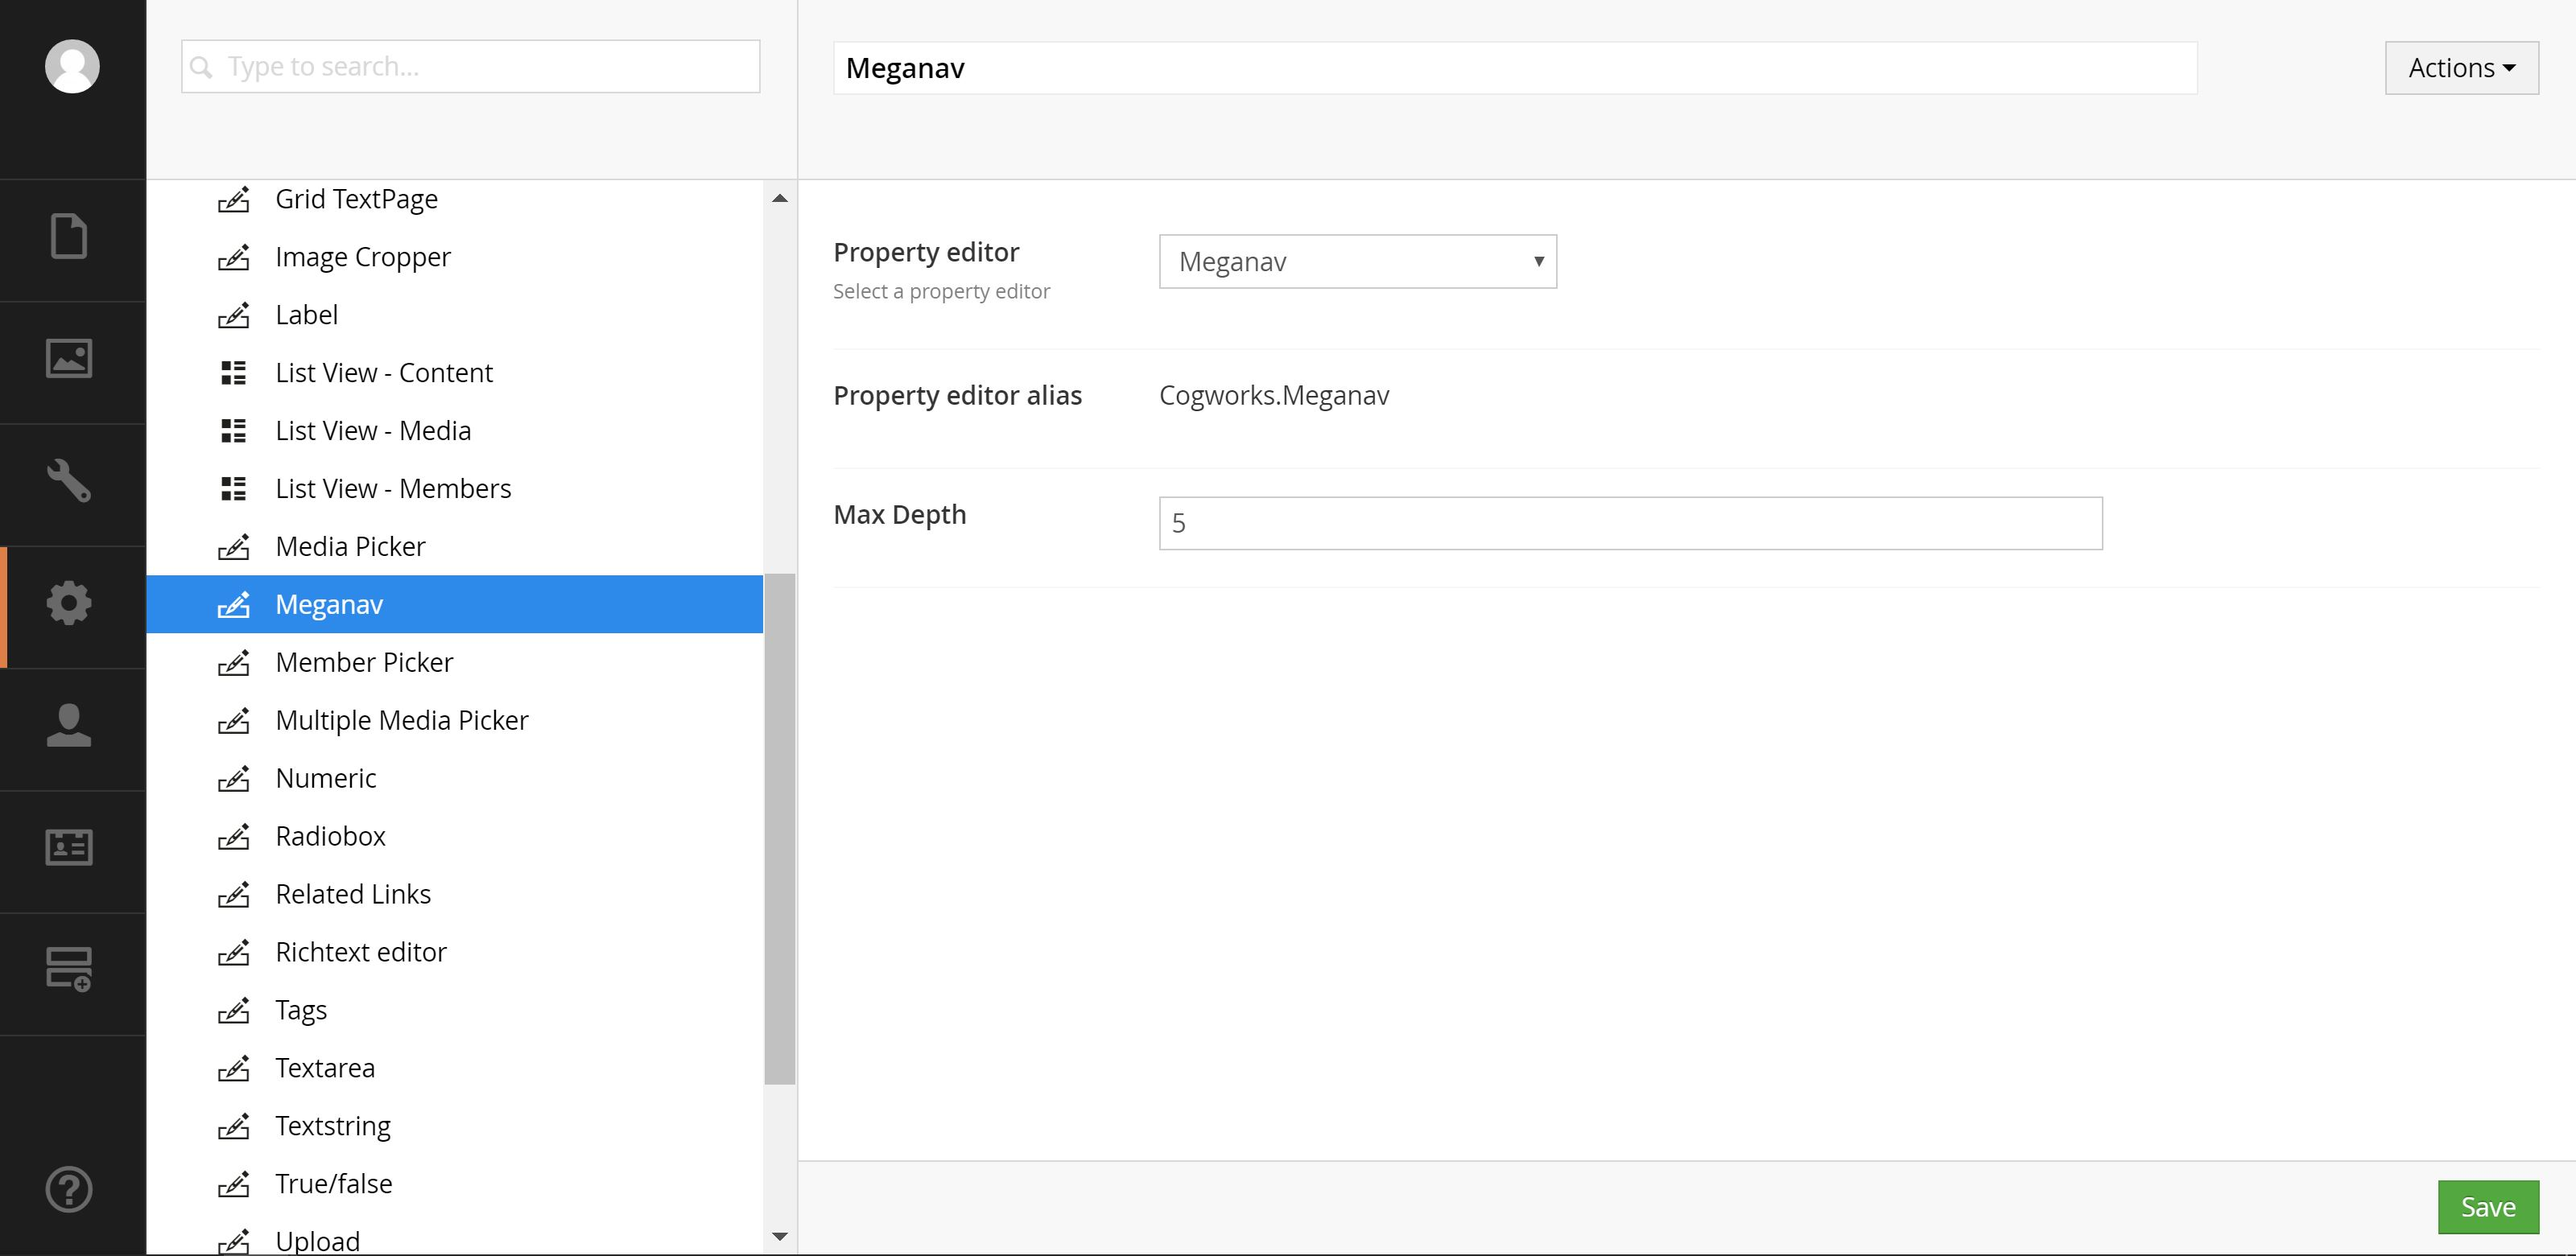
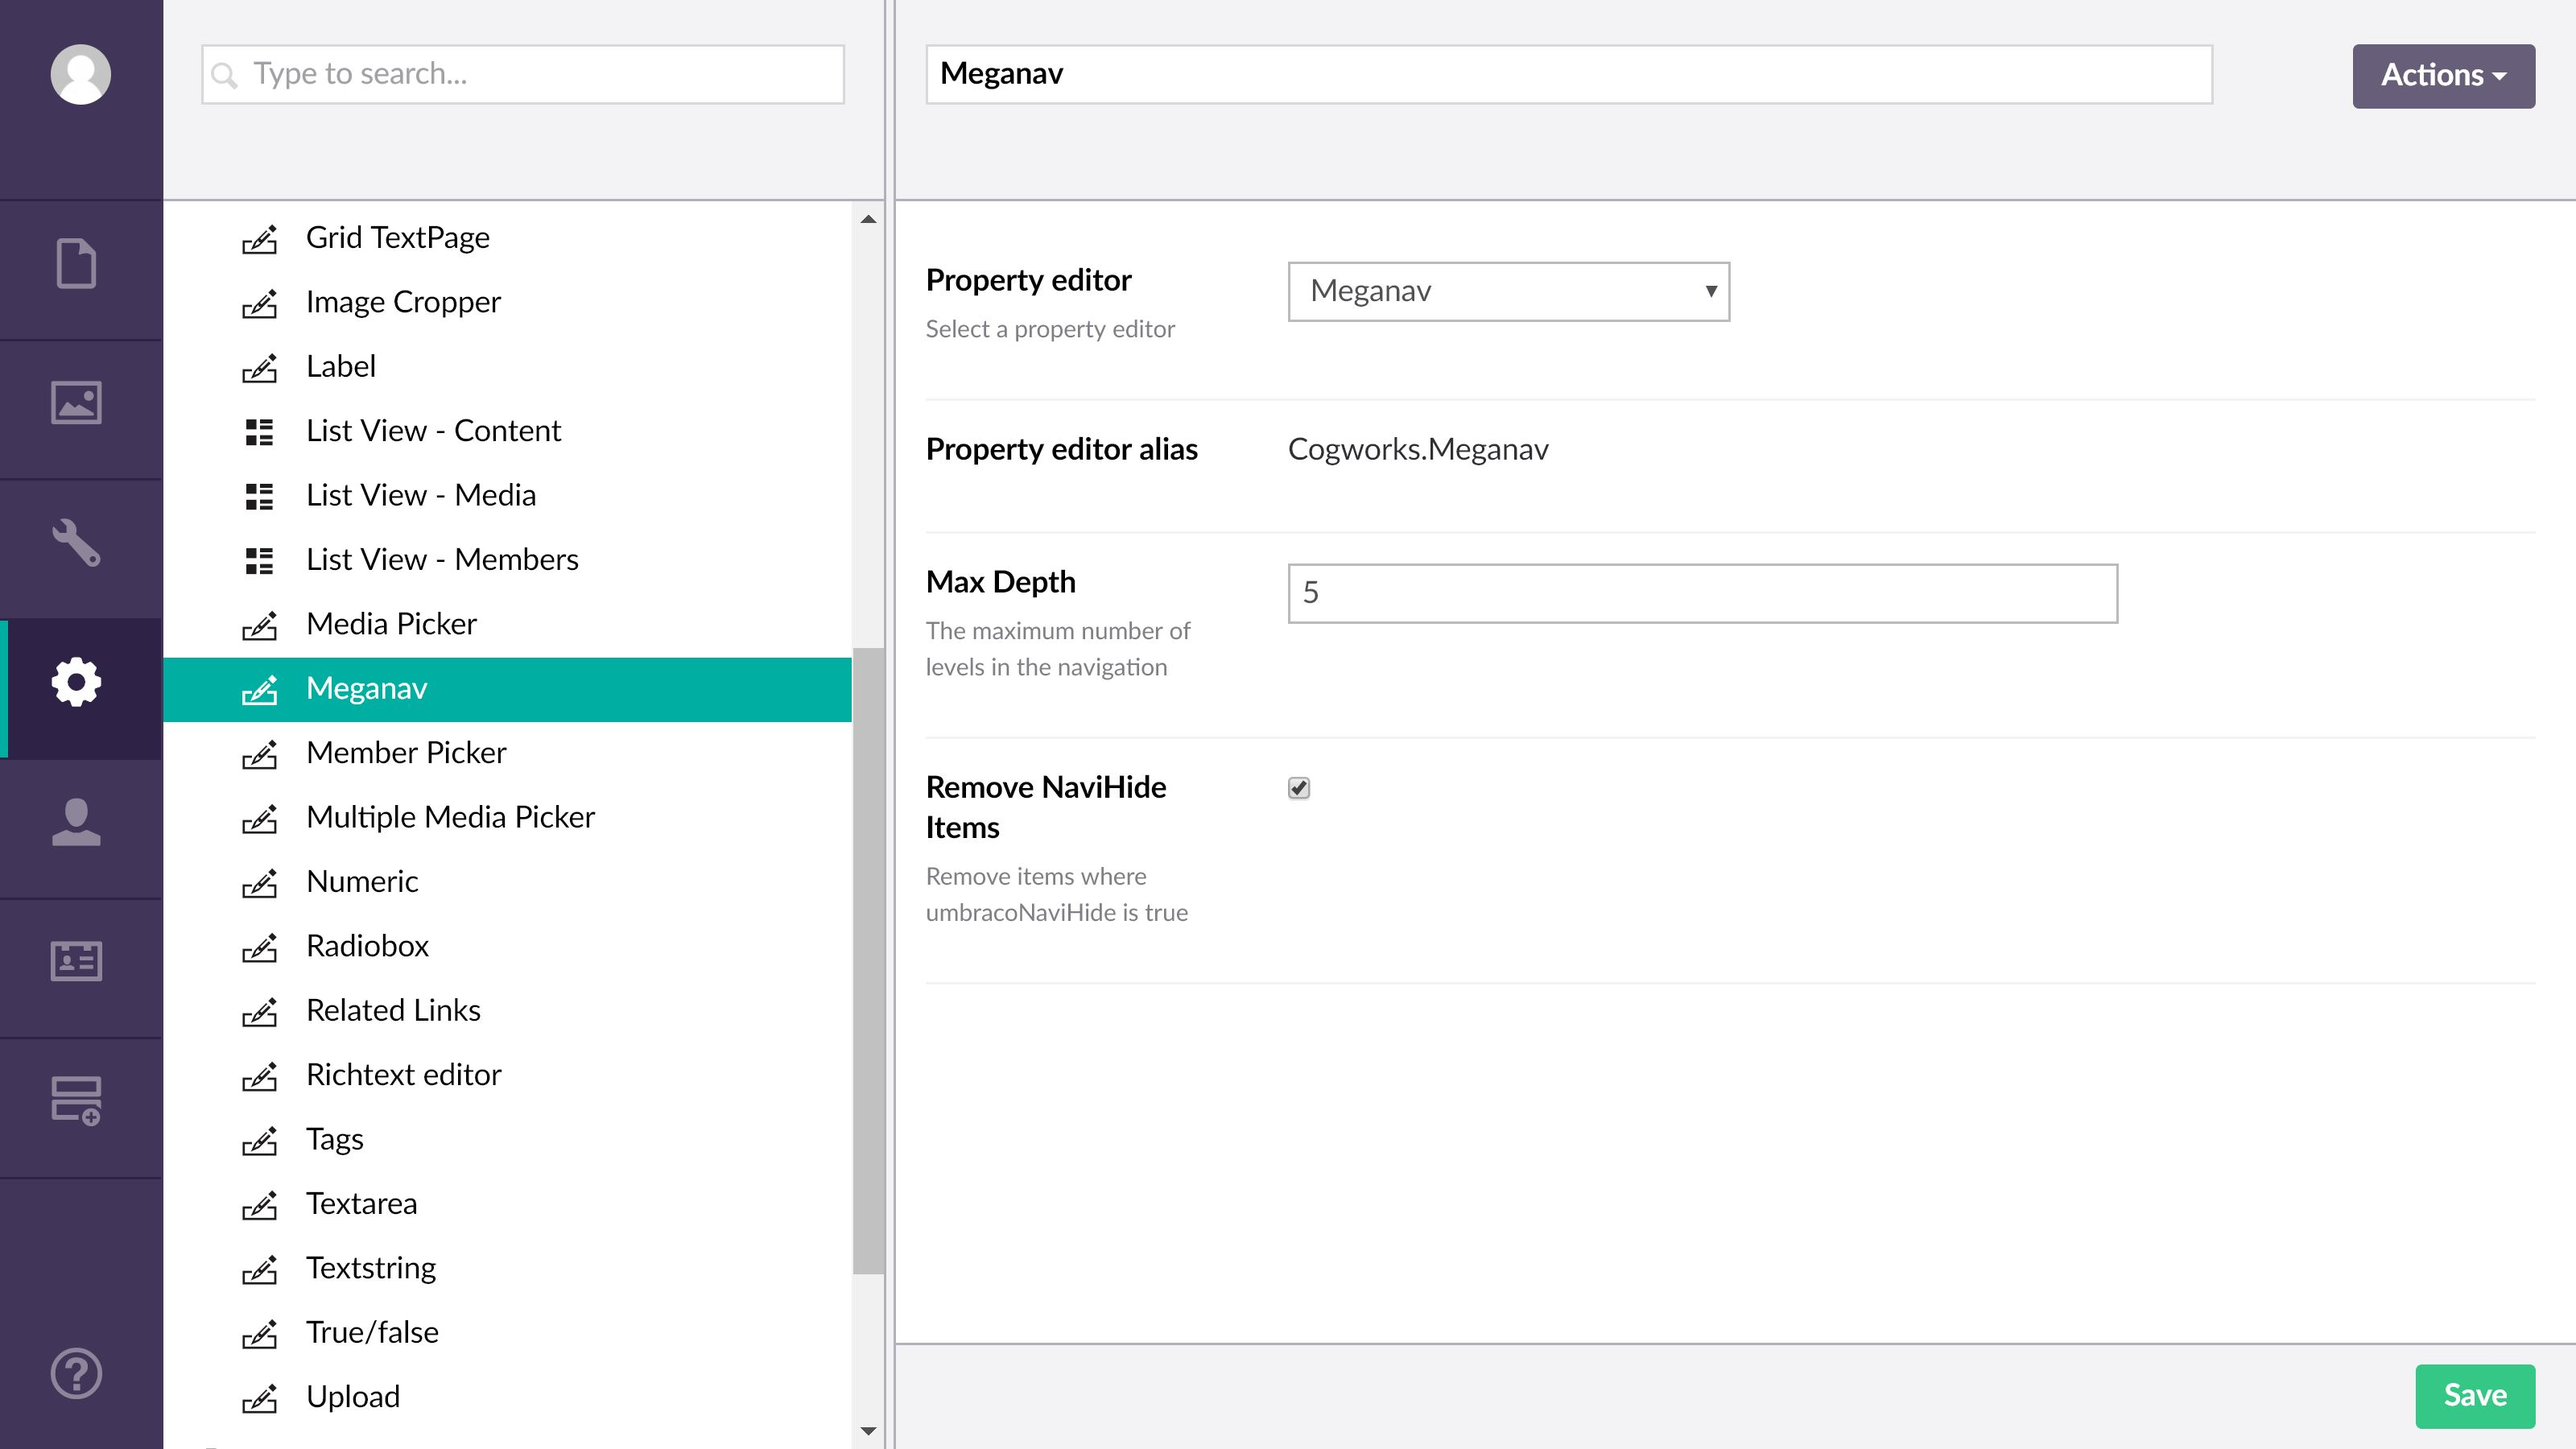
Updating documentation to reflect latest changes

diff --git a/README.md b/README.md
@@ -28,7 +28,7 @@ After installing the package, you'll be able to create a new Data Type based on 
 
 ![Meganav Data Type](docs/img/prevalue-editor.jpg?raw=true)
 
-Here you can configure the "Max depth" of the navigation - the maximum number of levels deep at which an editor can place nav items.
+Here you can configure the "Max depth" of the navigation - the maximum number of levels deep at which an editor can place nav items. You also have the option to prevent nav items where the _umbracoNaviHide_ property has been set from rendering on the front-end - these items will still appear in the backoffice but not on your website, you can still edit or change them as you wish. By default both of these settings are left unset.
 
 Now your Data Type is ready, we need to add it to a Document Type. This is done in the usual way - you will find Meganav appears in the "pickers" section when selecting a property to add.
 
@@ -40,7 +40,11 @@ In the backoffice, the design of Meganav closely follows the other pickers in Um
 
 ![Meganav](docs/img/nav-items.jpg?raw=true)
 
-Click and drag an item to change it's position within the navigation; drop it wherever you choose. Unpublished items will appear faded out and will not show on the front-end of the website.
+Click and drag an item to change it's position within the navigation; drop it wherever you choose. Unpublished items will appear faded out and will not show on the front-end of the website. If you have the "Remove NaviHide Items" setting enabled, any items where the _umbracoNaviHide_ property has been set on the selected content node will appear with a red outline in the backoffice and will also not show on the front-end.
+
+![Meganav Edit Item](docs/img/edit-nav-item.jpg?raw=true)
+
+When editing a navigation item you have the flexibility to modify how the link behaves on the front-end. Entering text into the "Link Title" field will display in place of the select content's name. Changing the "Target" property alters how the link opens when clicked; either in the current window, a new tab, or a new browser window.
 
 ### Integration
 
@@ -53,18 +57,24 @@ Check out the [integration guide](docs/integration-guide.md) to learn how to emb
 To raise a new bug, create an issue on the GitHub repository. To fix a bug or add new features, fork the repository and send a pull request with your changes. Feel free to add ideas to the repository's issues list if you would to discuss anything related to the package.
 
 ### Who do I talk to?
-This project is maintained by [Cogworks](http://www.thecogworks.com/) and contributors. If you have any questions about the project please contact us through the forum on Our Umbraco, on [Twitter](https://twitter.com/cogworks), or by raising an issue on GitHub.
+This project is maintained by [Cogworks](https://thecogworks.com/) and contributors. If you have any questions about the project please contact us through the forum on Our Umbraco, on [Twitter](https://twitter.com/cogworks), or by raising an issue on GitHub.
 
 ## Coming soon
 
 * Umbraco Cloud / Courier support
 * Collapsable tree sections
-* umbracoNaviHide indicator
+* Multi-lingual support
 * More...!
 
 ## Credits
 
 Meganav uses a _slightly_ modified version of [Angular UI Tree](https://github.com/angular-ui-tree/angular-ui-tree) v2.11.0 (MIT license)
+
+### A special #h5yr to our contributors
+
+* [Marcin Zajkowski](https://twitter.com/zajkowskimarcin)
+* [Arnold Visser](https://twitter.com/aim24)
+* [Robin Neal](https://twitter.com/SudoCat429)
 
 ## License
 
